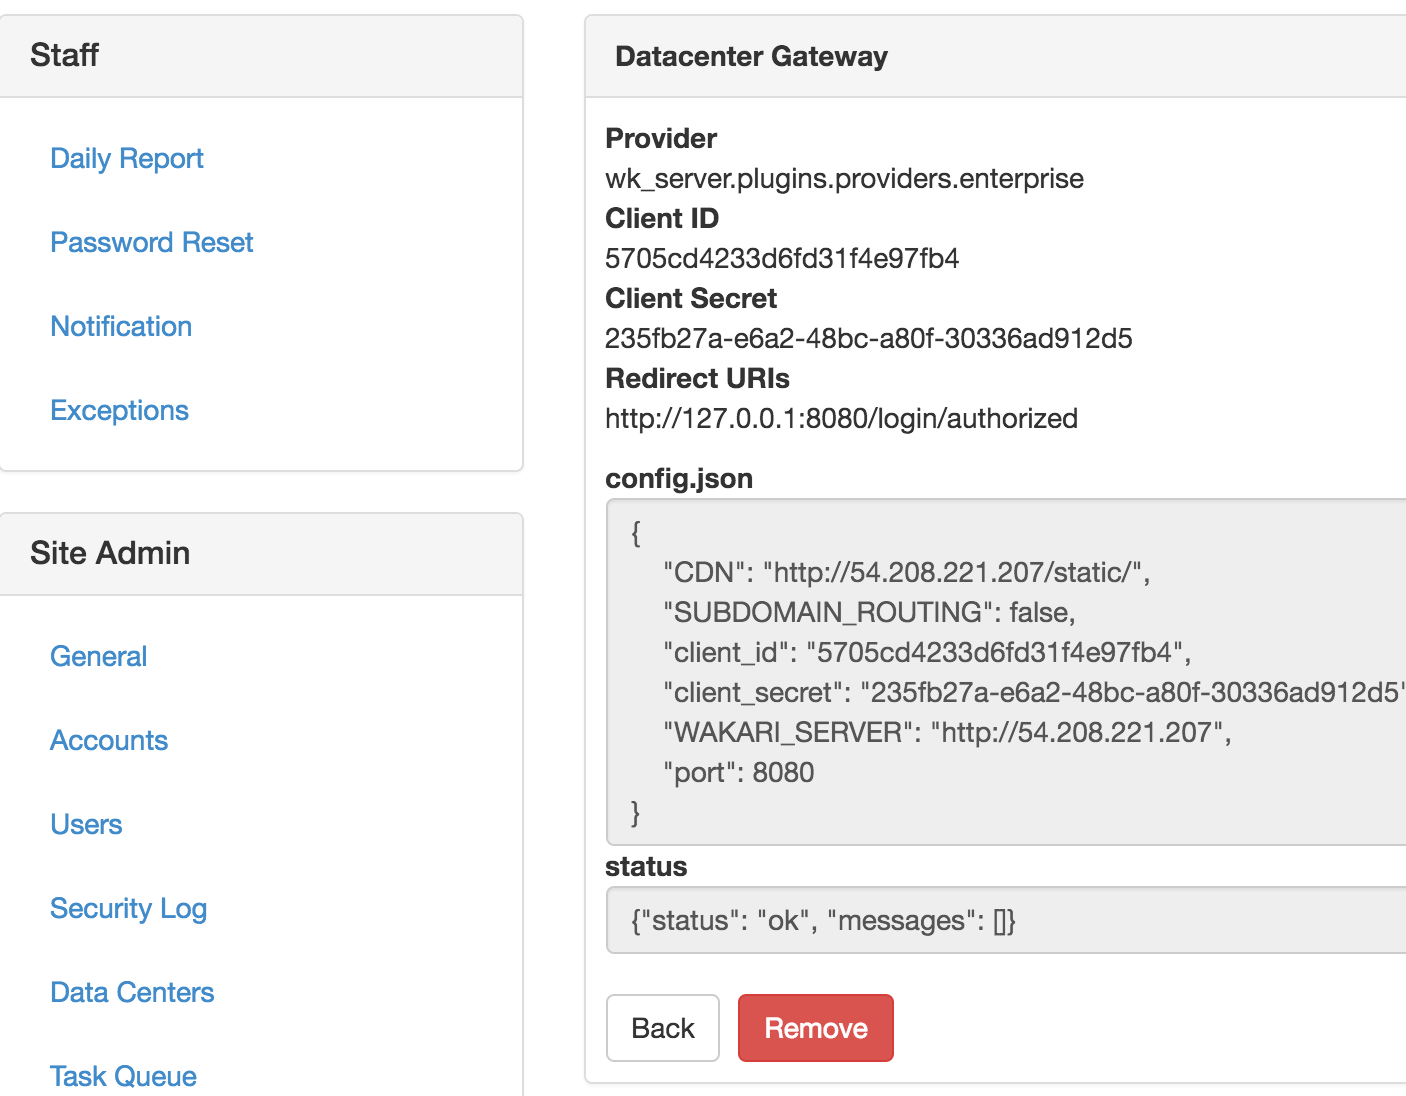
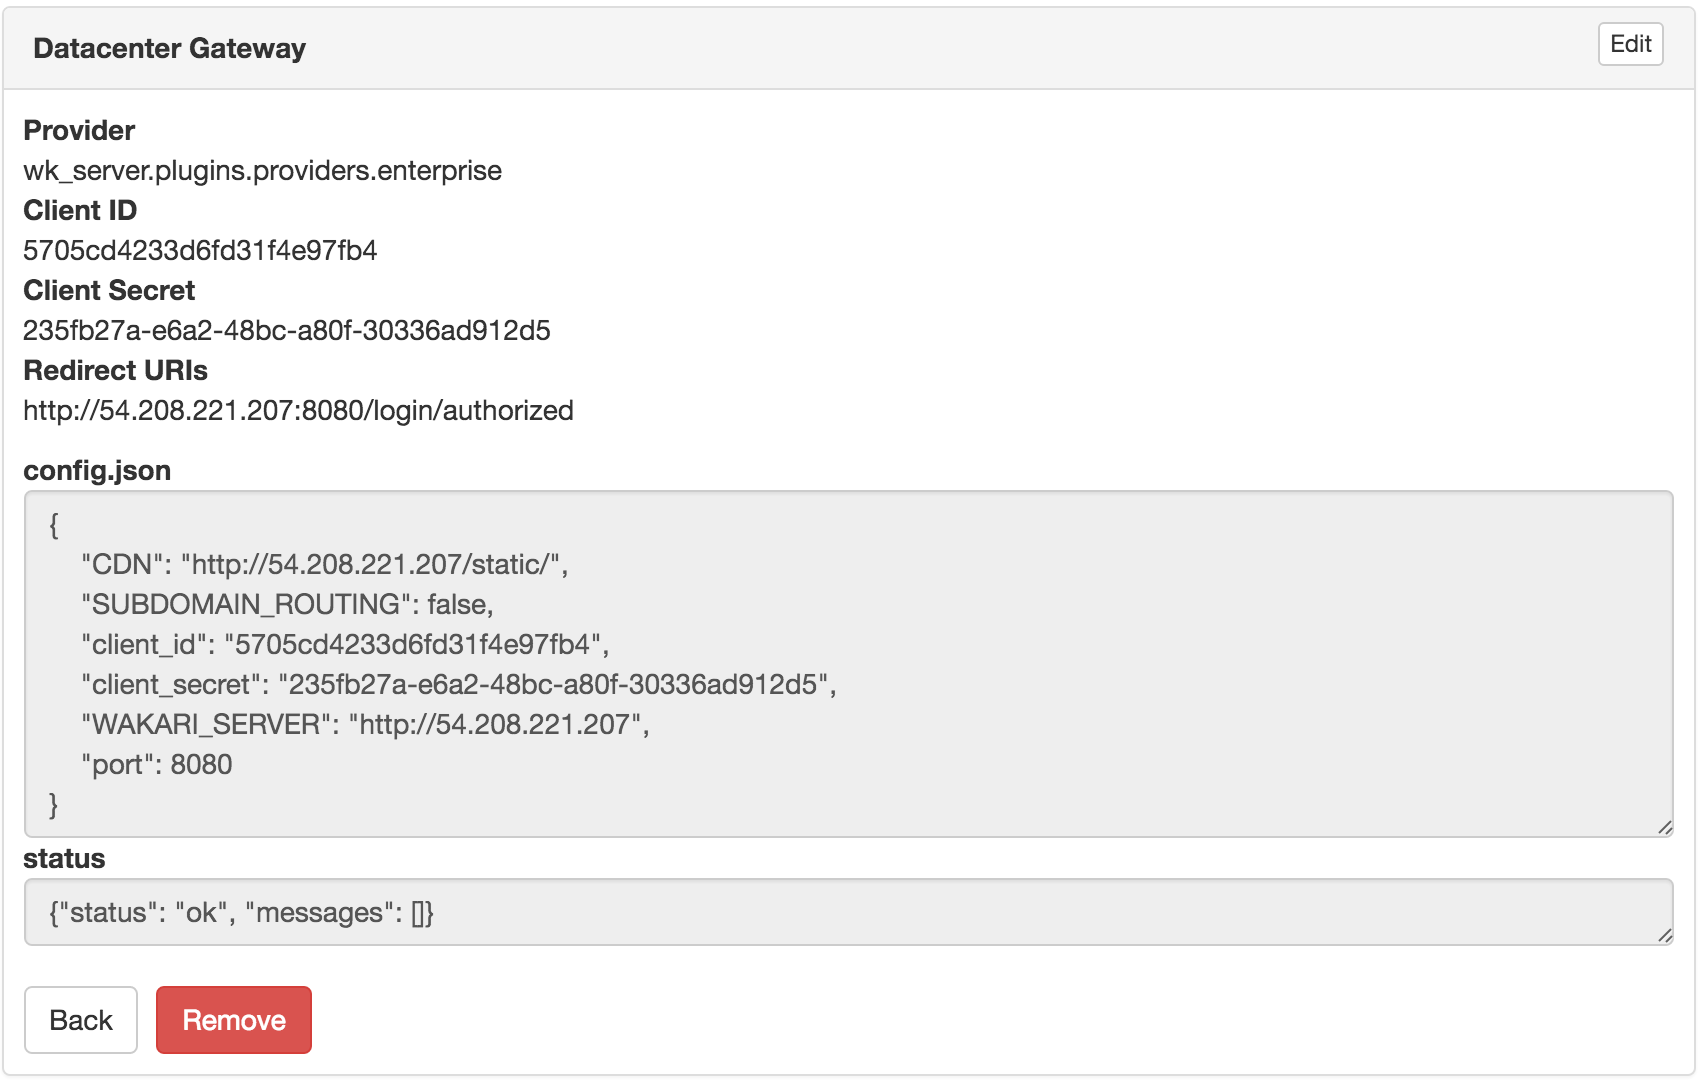
swapped out datacenter image and fixed numbering

diff --git a/AnacondaEnterpriseNotebooks.md b/AnacondaEnterpriseNotebooks.md
@@ -280,15 +280,15 @@ The Wakari Gateway needs to register with the Wakari Server.  This needs to be a
 1. Login to the Wakari Server using Chrome or Firefox browser using the wakari user.
 2. Click the Admin link in the toolbar
 	
-![	##insert image##
-](images/admin-menu.png)	
+	![](images/admin-menu.png)	
+
 3. Click the Datacenters subsection and then click your datacenter:
 	
-	##insert image##
+	![](images/datacenter-leftnav.png )
 	
 4. Verify that your datacenter is registered and looks like the following: status = ok.  
 	
-	##insert image##
+	![](images/datacenter.png )
 	
 		
 ## Install Wakari Compute
